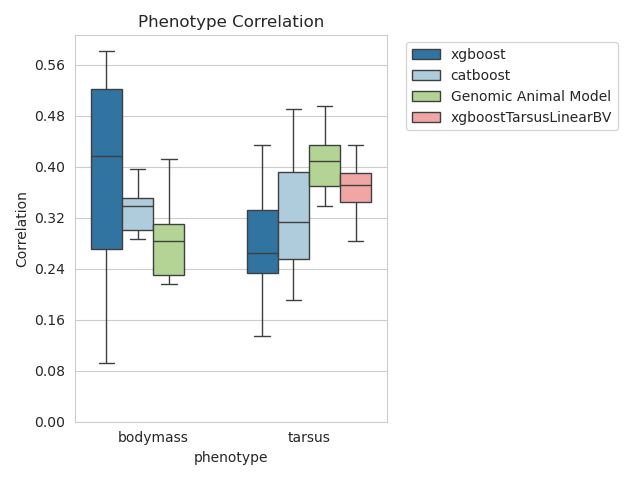
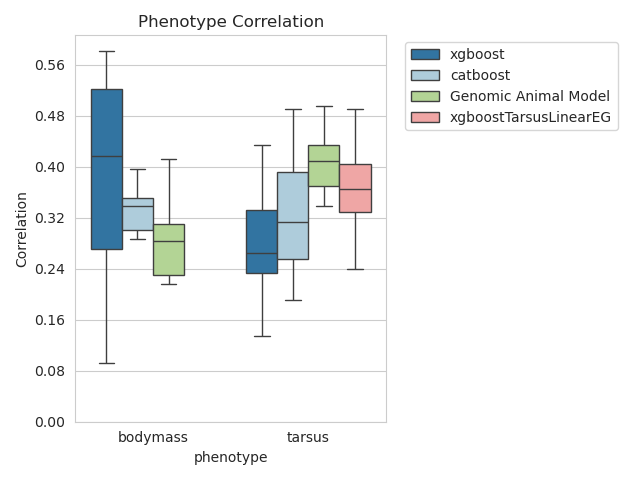
more figure fix v2

diff --git a/src/visualization/visualize.py b/src/visualization/visualize.py
@@ -15,13 +15,17 @@ results_df = pd.read_pickle(PROJECT_DIR/"models"/"results.pkl")
 project_thesis_result_df = pd.read_pickle(RESULTS_FROM_PROJECT_DIR/"project_df.pkl")
 project_thesis_result_df_BV = pd.read_pickle(RESULTS_FROM_PROJECT_DIR/"project_df_BV.pkl")
 project_thesis_result_df_EG = pd.read_pickle(RESULTS_FROM_PROJECT_DIR/"project_df_EG.pkl")
-
-def compare_with_project(names:list, fig_name:str):
+print(project_thesis_result_df_BV)
+def compare_with_project(names:list, fig_name:str, EG:bool=True):
     project_EG_red_df = project_thesis_result_df_EG.drop(columns = ["MSE", "feat_perc", "corrWith", "EG"])
+    project_BV_red_df = project_thesis_result_df_BV.drop(columns = ["MSE", "feat_perc", "corrWith", "EG"])
     master_df = results_df[~results_df.fold.isin(["outer","inner"])]
-    master_df = master_df[~master_df.name.isin(names)]
-    master_df = master_df.rename(columns={"name":"model"}).drop(columns = ["model_id"])
-    merged_df = pd.concat([project_EG_red_df, master_df], axis = 0)
+    master_df = master_df[master_df.name.isin(names)]
+    master_df = master_df.rename(columns={"name":"model"}).drop(columns = ["model_id", "fold"])
+    if EG:
+        merged_df = pd.concat([project_EG_red_df, master_df], axis = 0)
+    else:
+        merged_df = pd.concat([project_BV_red_df, master_df], axis = 0)
     make_boxplot(merged_df, "Phenotype Correlation",fig_name)
 
 def viz_across_pop():
@@ -59,5 +63,5 @@ def make_boxplot(df:pd.DataFrame, title:str, fig_name:str):
 
 if __name__ == "__main__":
     viz_across_pop()
-    compare_with_project(names = ["xgboostTarsusLinearEG"], fig_name = "EG_compare_with_linear")
-
+    # compare_with_project(names = ["xgboostTarsusLinearEG"], fig_name = "EG_compare_with_linear")
+    compare_with_project(names = ["xgboostTarsusLinearBV"], fig_name = "BV_compare_with_linear",EG = False)
